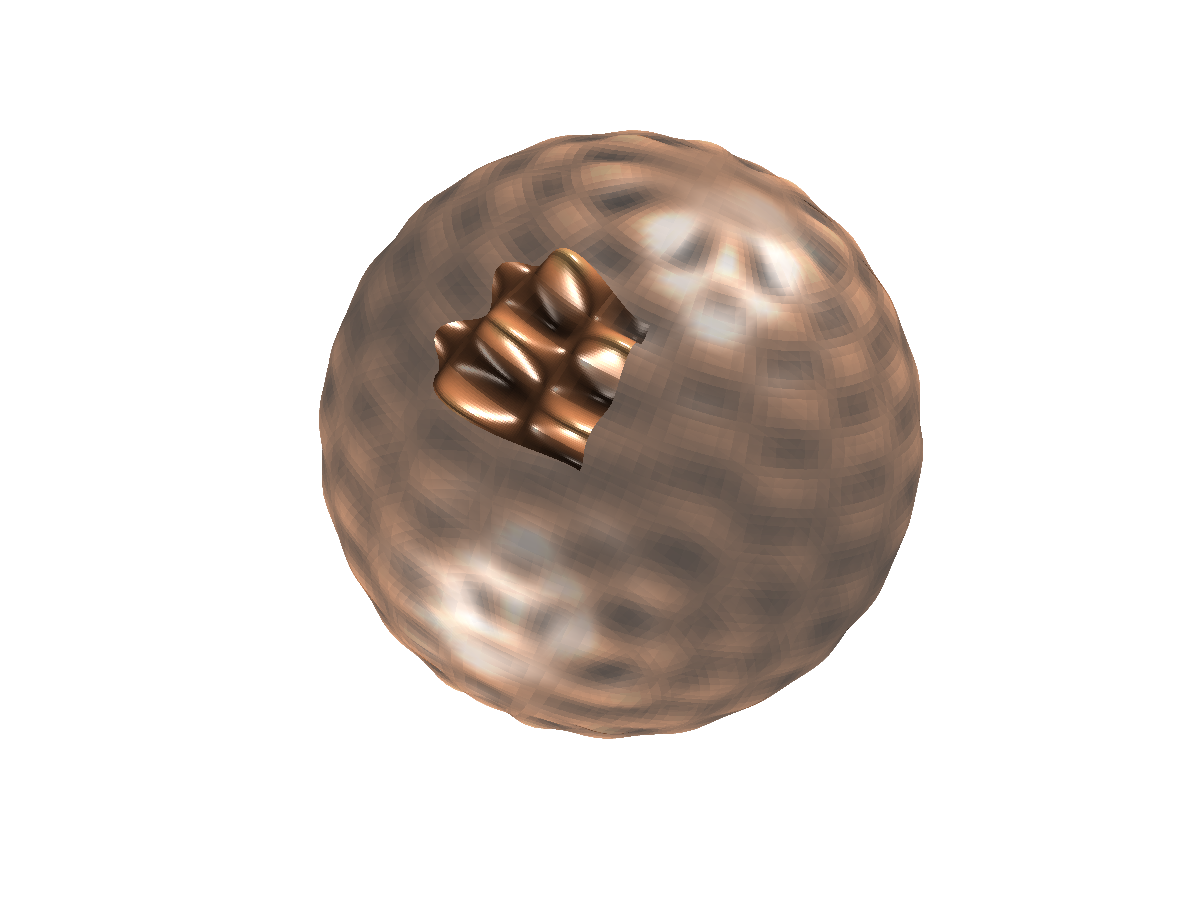
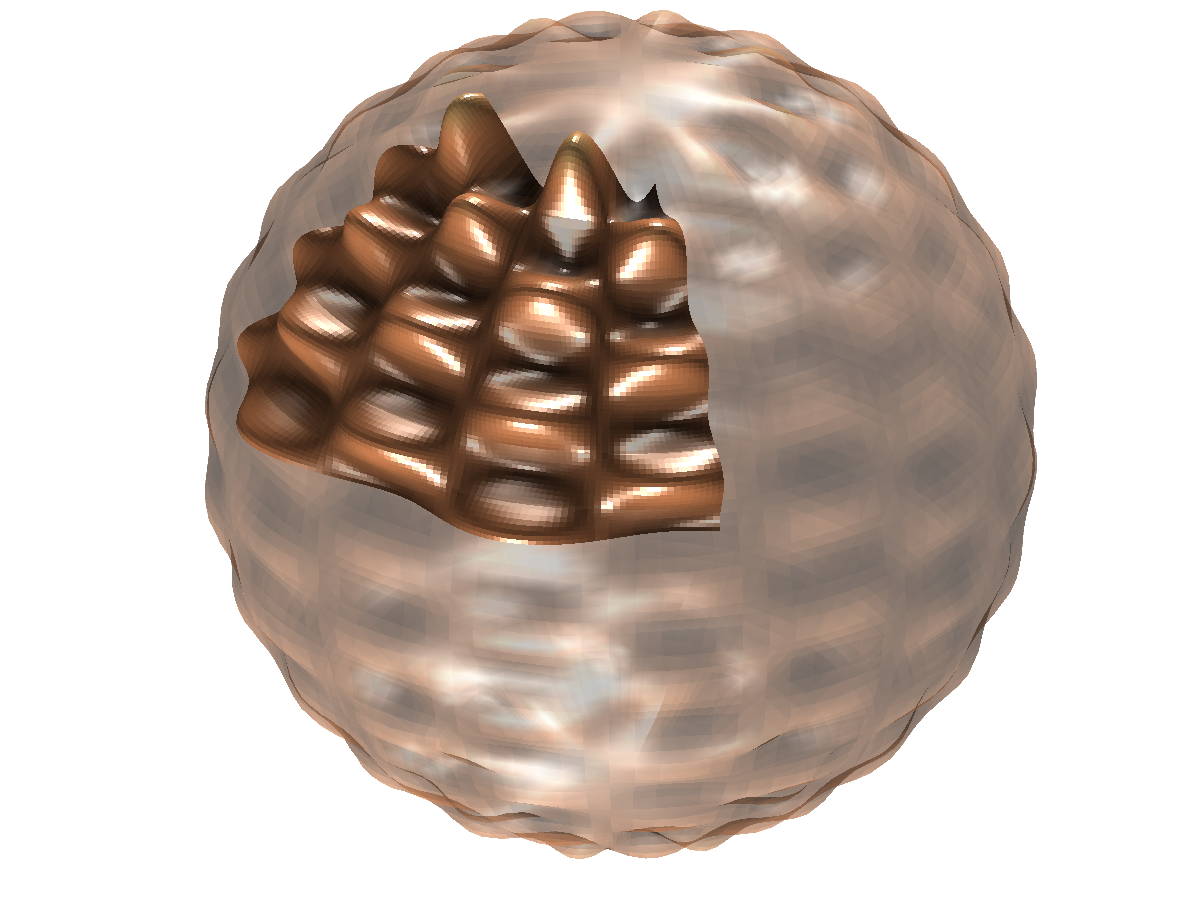
updates

diff --git a/public/css/raksite.css b/public/css/raksite.css
@@ -39,6 +39,7 @@
 	margin-bottom: 2em;
 }
 .post-date {
+	font-family: "PT Sans", Helvetica, Arial, sans-serif;
 	margin-top: -0.5rem;
 	margin-bottom: 0.5rem;
 	color: #9a9a9a;
@@ -174,7 +175,7 @@ pre {
 code {
 	padding: 0.1rem;
 	font-size: 85%;
-	color: #bf616a;
+	color: #7f4f4f;  /*color: #bf616a;*/
 	background-color: #ffffff;
 	border-radius: 0px;
 }

diff --git a/_layouts/technote.html b/_layouts/technote.html
@@ -4,7 +4,7 @@ layout: plain
 
 <div class="page">
   <h2 class="page-title">{{ page.title }}</h2>
-  <span class="post-date"><b>Technical Note &mdash; {{ page.date }}</b></span>
+  <span class="post-date">Technical Note &mdash; {{ page.date }}</span>
 
   {{ content }}
 

diff --git a/_site/404.html b/_site/404.html
@@ -151,6 +151,10 @@
     
       
         
+      
+    
+      
+        
           <a class="sidebar-nav-item"
             href="http://users.cecs.anu.edu.au/~rod/contact.html"><b>Kennedy</b> &middot; Contact</a>
         

diff --git a/_site/blogs/2014-05-02/icassp14.html b/_site/blogs/2014-05-02/icassp14.html
@@ -151,6 +151,10 @@
     
       
         
+      
+    
+      
+        
           <a class="sidebar-nav-item"
             href="http://users.cecs.anu.edu.au/~rod/contact.html"><b>Kennedy</b> &middot; Contact</a>
         

diff --git a/_site/blogs/2014-07-01/science-sphere.html b/_site/blogs/2014-07-01/science-sphere.html
@@ -151,6 +151,10 @@
     
       
         
+      
+    
+      
+        
           <a class="sidebar-nav-item"
             href="http://users.cecs.anu.edu.au/~rod/contact.html"><b>Kennedy</b> &middot; Contact</a>
         

diff --git a/_site/blogs/2014-11-05/dp15.html b/_site/blogs/2014-11-05/dp15.html
@@ -151,6 +151,10 @@
     
       
         
+      
+    
+      
+        
           <a class="sidebar-nav-item"
             href="http://users.cecs.anu.edu.au/~rod/contact.html"><b>Kennedy</b> &middot; Contact</a>
         

diff --git a/_site/index.html b/_site/index.html
@@ -151,6 +151,10 @@
     
       
         
+      
+    
+      
+        
           <a class="sidebar-nav-item"
             href="http://users.cecs.anu.edu.au/~rod/contact.html"><b>Kennedy</b> &middot; Contact</a>
         

diff --git a/resources/matlab/cmplxexp.m b/resources/matlab/cmplxexp.m
@@ -1,0 +1,44 @@
+alpha=-0.2+2j;
+C=0.5+0.7j;
+
+dd=0.1;
+t=[-10:dd:10];
+yt=C*exp(alpha*t);
+
+clf
+subplot('position',[0.05 0.06 0.9 1.1]) % so png's clip nicely
+
+% plot the continuous curve
+plot3(t, real(yt), imag(yt), 'green')
+axis([-10 10 -8 8 -8 8]); axis square
+set(0, 'defaultAxesTickLabelInterpreter','latex');
+set(0, 'defaultLegendInterpreter','latex');
+
+% labels (in latex)
+xlabel('continuous time $t$', 'Interpreter', 'Latex', 'FontSize', 14)
+ylabel('real part', 'FontSize', 14)
+zlabel('imag part', 'FontSize', 14)
+h=text(-10, 4, 8, '$x(t)=(0.5+0.7j)\,e^{(-0.2+2j)t}$', 'FontSize', 18);
+shg; pause(2); % flash up the CT complex exponential
+
+% output CT complex exponential to png file
+set(gcf,'PaperUnits','inches','PaperPosition',[0 0 6 5]) %150dpi
+saveas(gcf, 'figures/ct-cmplxexp', 'png')
+
+hold on; % we will overlay the CT complex exponential with the DT complex exponential
+
+% plot the discrete points
+n=[-10:10];
+yn=C*exp(alpha*n);
+plot3(n, real(yn), imag(yn), '*')
+
+% labels (in latex)
+xlabel('discrete time $n$', 'Interpreter', 'Latex', 'FontSize', 14)
+delete(h); % remove old CT text label
+text(-10, 4, 8, '$x[n]=(0.5+0.7j)\,\beta^n,\quad \beta=e^{-0.2+2j}$', 'FontSize', 18)
+
+% output DT complex exponential to png file
+set(gcf,'PaperUnits','inches','PaperPosition',[0 0 6 5]) %150dpi
+saveas(gcf, 'figures/dt-cmplxexp', 'png')
+
+hold off; shg

diff --git a/resources/matlab/shex_02.m b/resources/matlab/shex_02.m
@@ -1,0 +1,30 @@
+function []=shex_02()
+    clf;
+    colormap('copper')
+
+    % transparent sphere
+    [x,y,z,f,~]=generate_spherical_harmonic(24,8,0, 0,180, 0,360, 1.25,0.0, 0,0,0, 96,192);
+    surf(x,y,z,f,'edgecolor','none','facealpha','0.3');
+
+    % setup scene
+    light               % add a light
+    lightangle(260,-45) % second fill-in light
+    lighting gouraud    % preferred lighting for a curved surface
+    axis equal off      % set axis equal and remove axis
+    view(-75,30)        % set viewpoint
+    camzoom(1.7)         
+    hold on
+
+    % add a patch
+    [x,y,z,f,~]=generate_spherical_harmonic(24,8,0, 20,75, 120,180, 1.25,0.1, 0,0,0, 96,192);
+    surf(x,y,z,f,'edgecolor','none');
+
+    % add a patch
+    [x,y,z,f,~]=generate_spherical_harmonic(24,8,0, 80,110, 200,240, 1.25,0.1, 0,0,0, 96,192);
+    surf(x,y,z,f,'edgecolor','none');
+
+    set(gcf,'PaperUnits','inches','PaperPosition',[0 0 6 6]) %150dpi
+    saveas(gcf,'figures/shex_02','png')
+
+    hold off; shg
+end

diff --git a/resources/matlab/imageconv.m b/resources/matlab/imageconv.m
@@ -1,5 +1,5 @@
 in_image = imread('154_tank_challenger.jpg');
-%imshow(in_image);
+%imshow(in_image); pause
 
 v=[1 1]; v=v/norm(v,1);
 for n = 1:9
@@ -10,7 +10,7 @@ h=v'*v;
 out_image = imfilter(in_image,h);
 %imshow(out_image);
 
-new_image = out_image+ 0.75*(in_image-out_image);
+new_image = 10*(in_image-out_image);
 imshow(new_image);
 
 shg

diff --git a/resources/spharm.md b/resources/spharm.md
@@ -1,10 +1,10 @@
 ---
 layout: technote
-title: Book Spherical Harmonic Code
+title: Spherical Harmonic Plotting with MATLAB&reg;
 author: Rod Kennedy
 date: 6 Aug 2015
 resource-categories: [sphere]
-downloads: [matlab/generate_spherical_harmonic.m, matlab/RZRYRZdeg.m, matlab/shex_01.m, matlab/figures/shex_01.png]
+downloads: [matlab/generate_spherical_harmonic.m, matlab/RZRYRZdeg.m, matlab/shex_01.m, matlab/figures/shex_01.png, matlab/shex_02.m, matlab/figures/shex_02.png]
 published: true
 ---
 
@@ -47,6 +47,24 @@ Here we pick one spherical harmonic corresponding to $$\ell=8$$ and $$m=7$$ and 
 ##### Output png figure &mdash; [<code>{{ pngPath | split: "/" | last }}</code>]({{ pngPath }})
 
 ![png]({{pngPath}}){: width="750px" class="matlab"}
+
+
+{% capture exa %}{{page.downloads[4]}}{% endcapture %}
+
+#### 2) MATLAB&reg; Code [<code>{{ exa | split: "/" | last }}</code>]({{ exa }})
+
+Here we overlay patches of a spherical harmonic on a transparent sphere.
+
+{% highlight matlab tabsize=3 %}
+{% include_relative {{ exa }} %}
+{% endhighlight %}
+
+{% capture pngPath %}{{page.downloads[5]}}{% endcapture %}
+
+##### Output png figure &mdash; [<code>{{ pngPath | split: "/" | last }}</code>]({{ pngPath }})
+
+![png]({{pngPath}}){: width="450px" class="matlab"}
+
 
 ### Downloads
 

diff --git a/resources/matlablatex.md b/resources/matlablatex.md
@@ -1,0 +1,33 @@
+---
+layout: technote
+title: Latex labels with MATLAB&reg;
+author: Rod Kennedy
+date: 12 Aug 2015
+resource-categories: [code]
+published: true
+---
+
+{% include toc.md %}
+
+
+{% capture cmplxexp %}matlab/cmplxexp.m{% endcapture %}
+
+### MATLAB&reg; code &mdash; [<code>{{ cmplxexp | split: "/" | last }}</code>]({{ cmplxexp }})
+
+{% highlight matlab tabsize=3 %}
+{% include_relative {{ cmplxexp }} %}
+{% endhighlight %}
+
+
+{% capture pngPath %}matlab/figures/ct-cmplxexp.png{% endcapture %}
+
+### Output png Figure &mdash; [<code>{{ pngPath | split: "/" | last }}</code>]({{ pngPath }})
+
+![ct]({{ pngPath }}){: width="45%" class="matlab"}
+
+
+{% capture pngPath2 %}matlab/figures/dt-cmplxexp.png{% endcapture %}
+
+### Output png Figure &mdash; [<code>{{ pngPath2 | split: "/" | last }}</code>]({{ pngPath2 }})
+
+![dt]({{ pngPath2 }}){: width="45%" class="matlab"}
